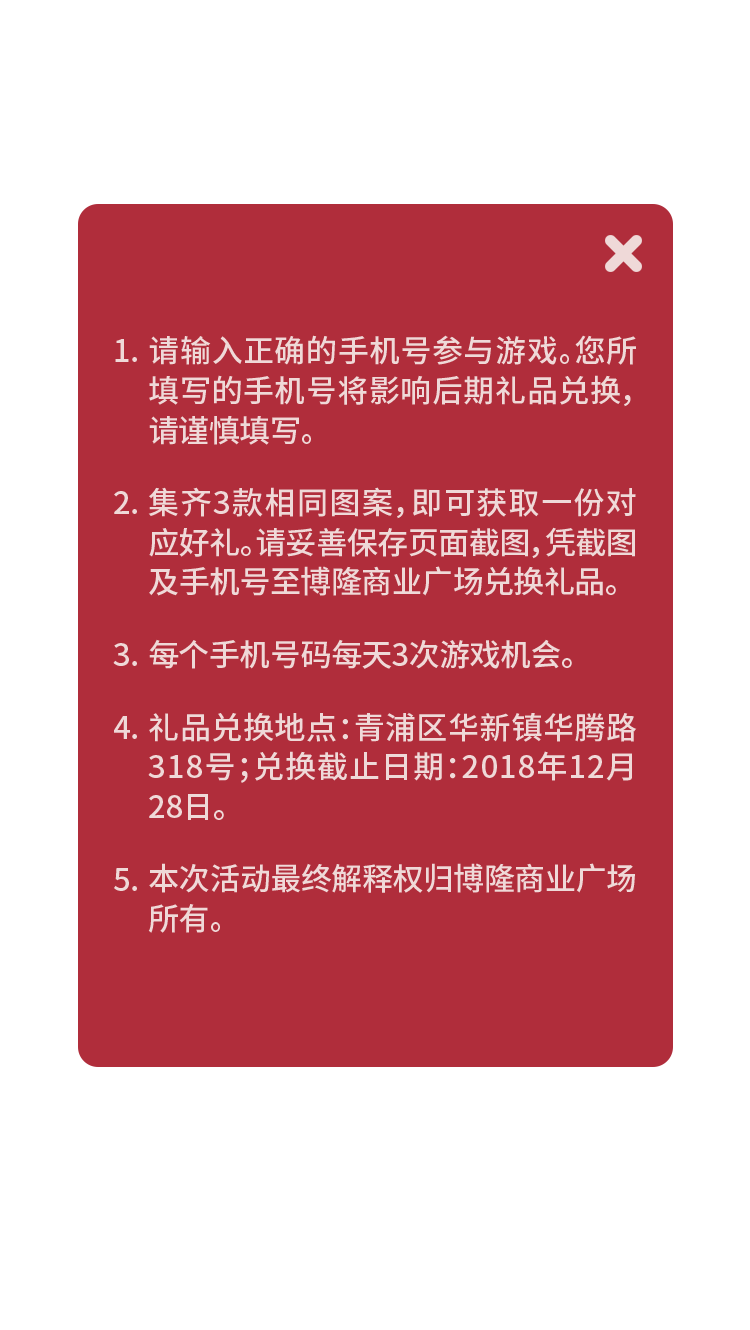
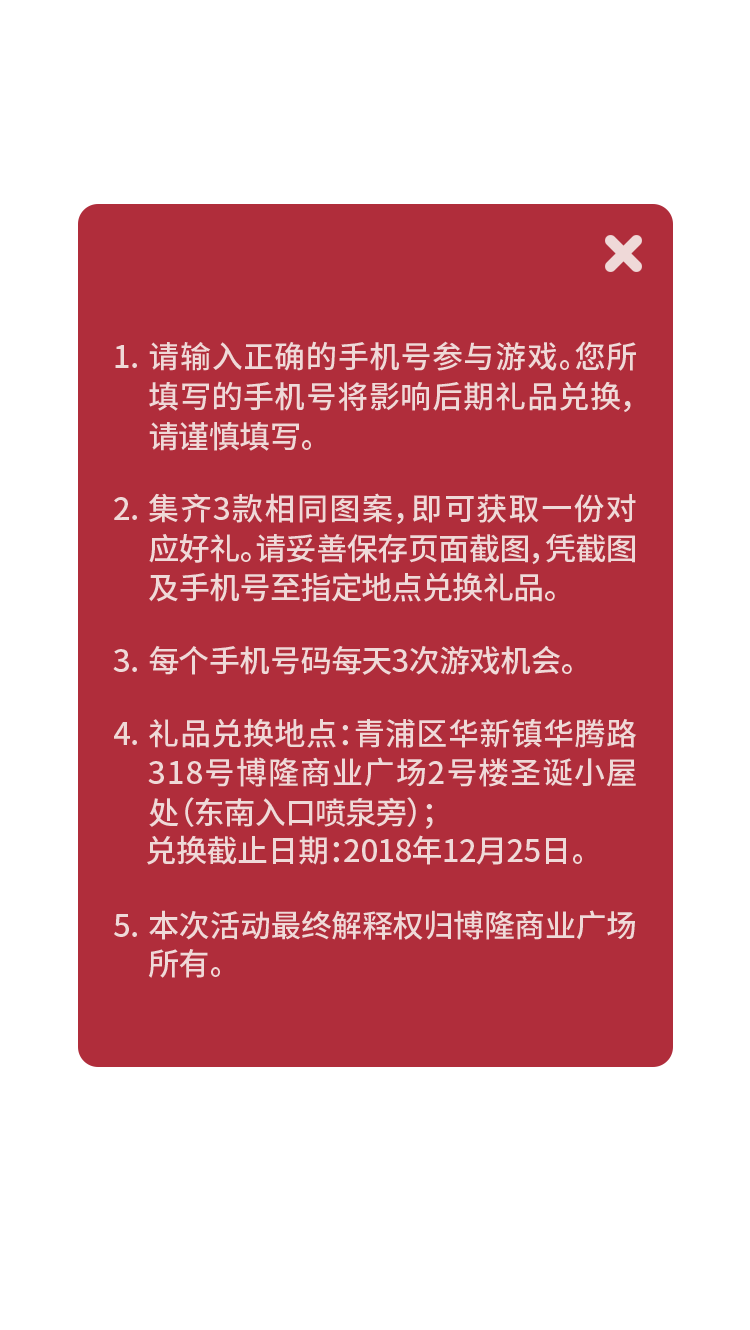
rule.png

Changed region(s): [[0.1533, 0.3699, 0.8587, 0.7398], [0.1533, 0.2466, 0.8587, 0.3391]]

diff --git a/public/static/dist/views/index.php b/public/static/dist/views/index.php
@@ -1,1 +1,1 @@
-<!doctype html><html lang="en"><head><meta charset="UTF-8"><meta name="viewport" content="width=device-width,user-scalable=no,initial-scale=1,maximum-scale=1,minimum-scale=1"><meta name="apple-mobile-web-app-capable" content="yes"><meta name="apple-mobile-web-app-status-bar-style" content="black"><meta name="format-detection" content="telephone=no"><meta name="wap-font-scale" content="no"><meta name="screen-orientation" content="portrait"><meta name="x5-orientation" content="portrait"><meta http-equiv="X-UA-Compatible" content="IE=Edge"><meta name="renderer" content="webkit"><meta name="robots" content="index, follow"><meta name="keywords" content="zhouhuafei, 周华飞"><meta name="description" content="zhouhuafei, 周华飞"><meta name="author" content="zhouhuafei, 周华飞, 1123486116@qq.com"><title>抽奖</title><link rel="stylesheet" href="/static/dist/css/index-1b44430750.css"></head><body><div class="g-wrap"><script>!function(e,i){function n(){var e=i.querySelector("html"),n=i.querySelector(".g-wrap");!function(){for(var e=navigator.userAgent,n=["Android","iPhone","SymbianOS","Windows Phone","iPad","iPod"],i=!0,t=0;t<n.length;t++)if(0<e.indexOf(n[t])){i=!1;break}return i}()?e.classList.remove("g-pc"):e.classList.add("g-pc"),e.style.fontSize=n.offsetWidth/10+"px"}n(),e.addEventListener("resize",n)}(window,document)</script><div class="prize"><div class="prize-item"></div><div class="prize-item"></div><div class="prize-item"></div></div><img class="scroll" src="/static/dist/images/scroll-36516202b8.png" alt=""> <img class="lamp" src="/static/dist/images/lamp2-f1f1b72955.png" alt=""><div class="handle handle_selected1"><img class="handle-item" src="/static/dist/images/handle1-93982247f5.png" alt=""> <img class="handle-item" src="/static/dist/images/handle2-cc8cf412a4.png" alt=""> <img class="handle-item" src="/static/dist/images/handle3-b63c4285b8.png" alt=""></div><div class="handle-btn"></div><input type="text" class="tel" placeholder="请输入手机号"><div class="btn"><div class="btn-text">试试手气</div><div class="btn-remainder">(剩余<span class="btn-remainder-num">3</span>次机会)</div></div><div class="rule-btn"></div><div class="rule"><img class="rule-img" src="/static/dist/images/rule-845032d012.png" alt=""><div class="rule-close"></div></div><div class="transparent"></div><div class="message"><div class="message-close"></div><div class="message-info">请输入正确的11位手机号码</div></div><div class="luck"><div class="luck-close"></div><div class="luck-title">恭喜您</div><div class="luck-title">获得&#60;博隆-<span class="luck-gift">开业好礼</span>&#62;一份</div><div class="luck-content"><div>请您凭借此页截图</div><div>在截止日期前至指定地点兑换礼品</div><div>No.00001</div></div></div><script src="https://cdn.bootcss.com/jquery/3.3.1/jquery.min.js"></script><script src="/static/dist/js/index-11ee7ed1c1.js"></script></div></body></html>
+<!doctype html><html lang="en"><head><meta charset="UTF-8"><meta name="viewport" content="width=device-width,user-scalable=no,initial-scale=1,maximum-scale=1,minimum-scale=1"><meta name="apple-mobile-web-app-capable" content="yes"><meta name="apple-mobile-web-app-status-bar-style" content="black"><meta name="format-detection" content="telephone=no"><meta name="wap-font-scale" content="no"><meta name="screen-orientation" content="portrait"><meta name="x5-orientation" content="portrait"><meta http-equiv="X-UA-Compatible" content="IE=Edge"><meta name="renderer" content="webkit"><meta name="robots" content="index, follow"><meta name="keywords" content="zhouhuafei, 周华飞"><meta name="description" content="zhouhuafei, 周华飞"><meta name="author" content="zhouhuafei, 周华飞, 1123486116@qq.com"><title>抽奖</title><link rel="stylesheet" href="/static/dist/css/index-1b44430750.css"></head><body><div class="g-wrap"><script>!function(e,i){function n(){var e=i.querySelector("html"),n=i.querySelector(".g-wrap");!function(){for(var e=navigator.userAgent,n=["Android","iPhone","SymbianOS","Windows Phone","iPad","iPod"],i=!0,t=0;t<n.length;t++)if(0<e.indexOf(n[t])){i=!1;break}return i}()?e.classList.remove("g-pc"):e.classList.add("g-pc"),e.style.fontSize=n.offsetWidth/10+"px"}n(),e.addEventListener("resize",n)}(window,document)</script><div class="prize"><div class="prize-item"></div><div class="prize-item"></div><div class="prize-item"></div></div><img class="scroll" src="/static/dist/images/scroll-36516202b8.png" alt=""> <img class="lamp" src="/static/dist/images/lamp2-f1f1b72955.png" alt=""><div class="handle handle_selected1"><img class="handle-item" src="/static/dist/images/handle1-93982247f5.png" alt=""> <img class="handle-item" src="/static/dist/images/handle2-cc8cf412a4.png" alt=""> <img class="handle-item" src="/static/dist/images/handle3-b63c4285b8.png" alt=""></div><div class="handle-btn"></div><input type="text" class="tel" placeholder="请输入手机号"><div class="btn"><div class="btn-text">试试手气</div><div class="btn-remainder">(剩余<span class="btn-remainder-num">3</span>次机会)</div></div><div class="rule-btn"></div><div class="rule"><img class="rule-img" src="/static/dist/images/rule-6fbc95bda4.png" alt=""><div class="rule-close"></div></div><div class="transparent"></div><div class="message"><div class="message-close"></div><div class="message-info">请输入正确的11位手机号码</div></div><div class="luck"><div class="luck-close"></div><div class="luck-title">恭喜您</div><div class="luck-title">获得&#60;博隆-<span class="luck-gift">开业好礼</span>&#62;一份</div><div class="luck-content"><div>请您凭借此页截图</div><div>在截止日期前至指定地点兑换礼品</div><div>No.00001</div></div></div><script src="https://cdn.bootcss.com/jquery/3.3.1/jquery.min.js"></script><script src="/static/dist/js/index-11ee7ed1c1.js"></script></div></body></html>
